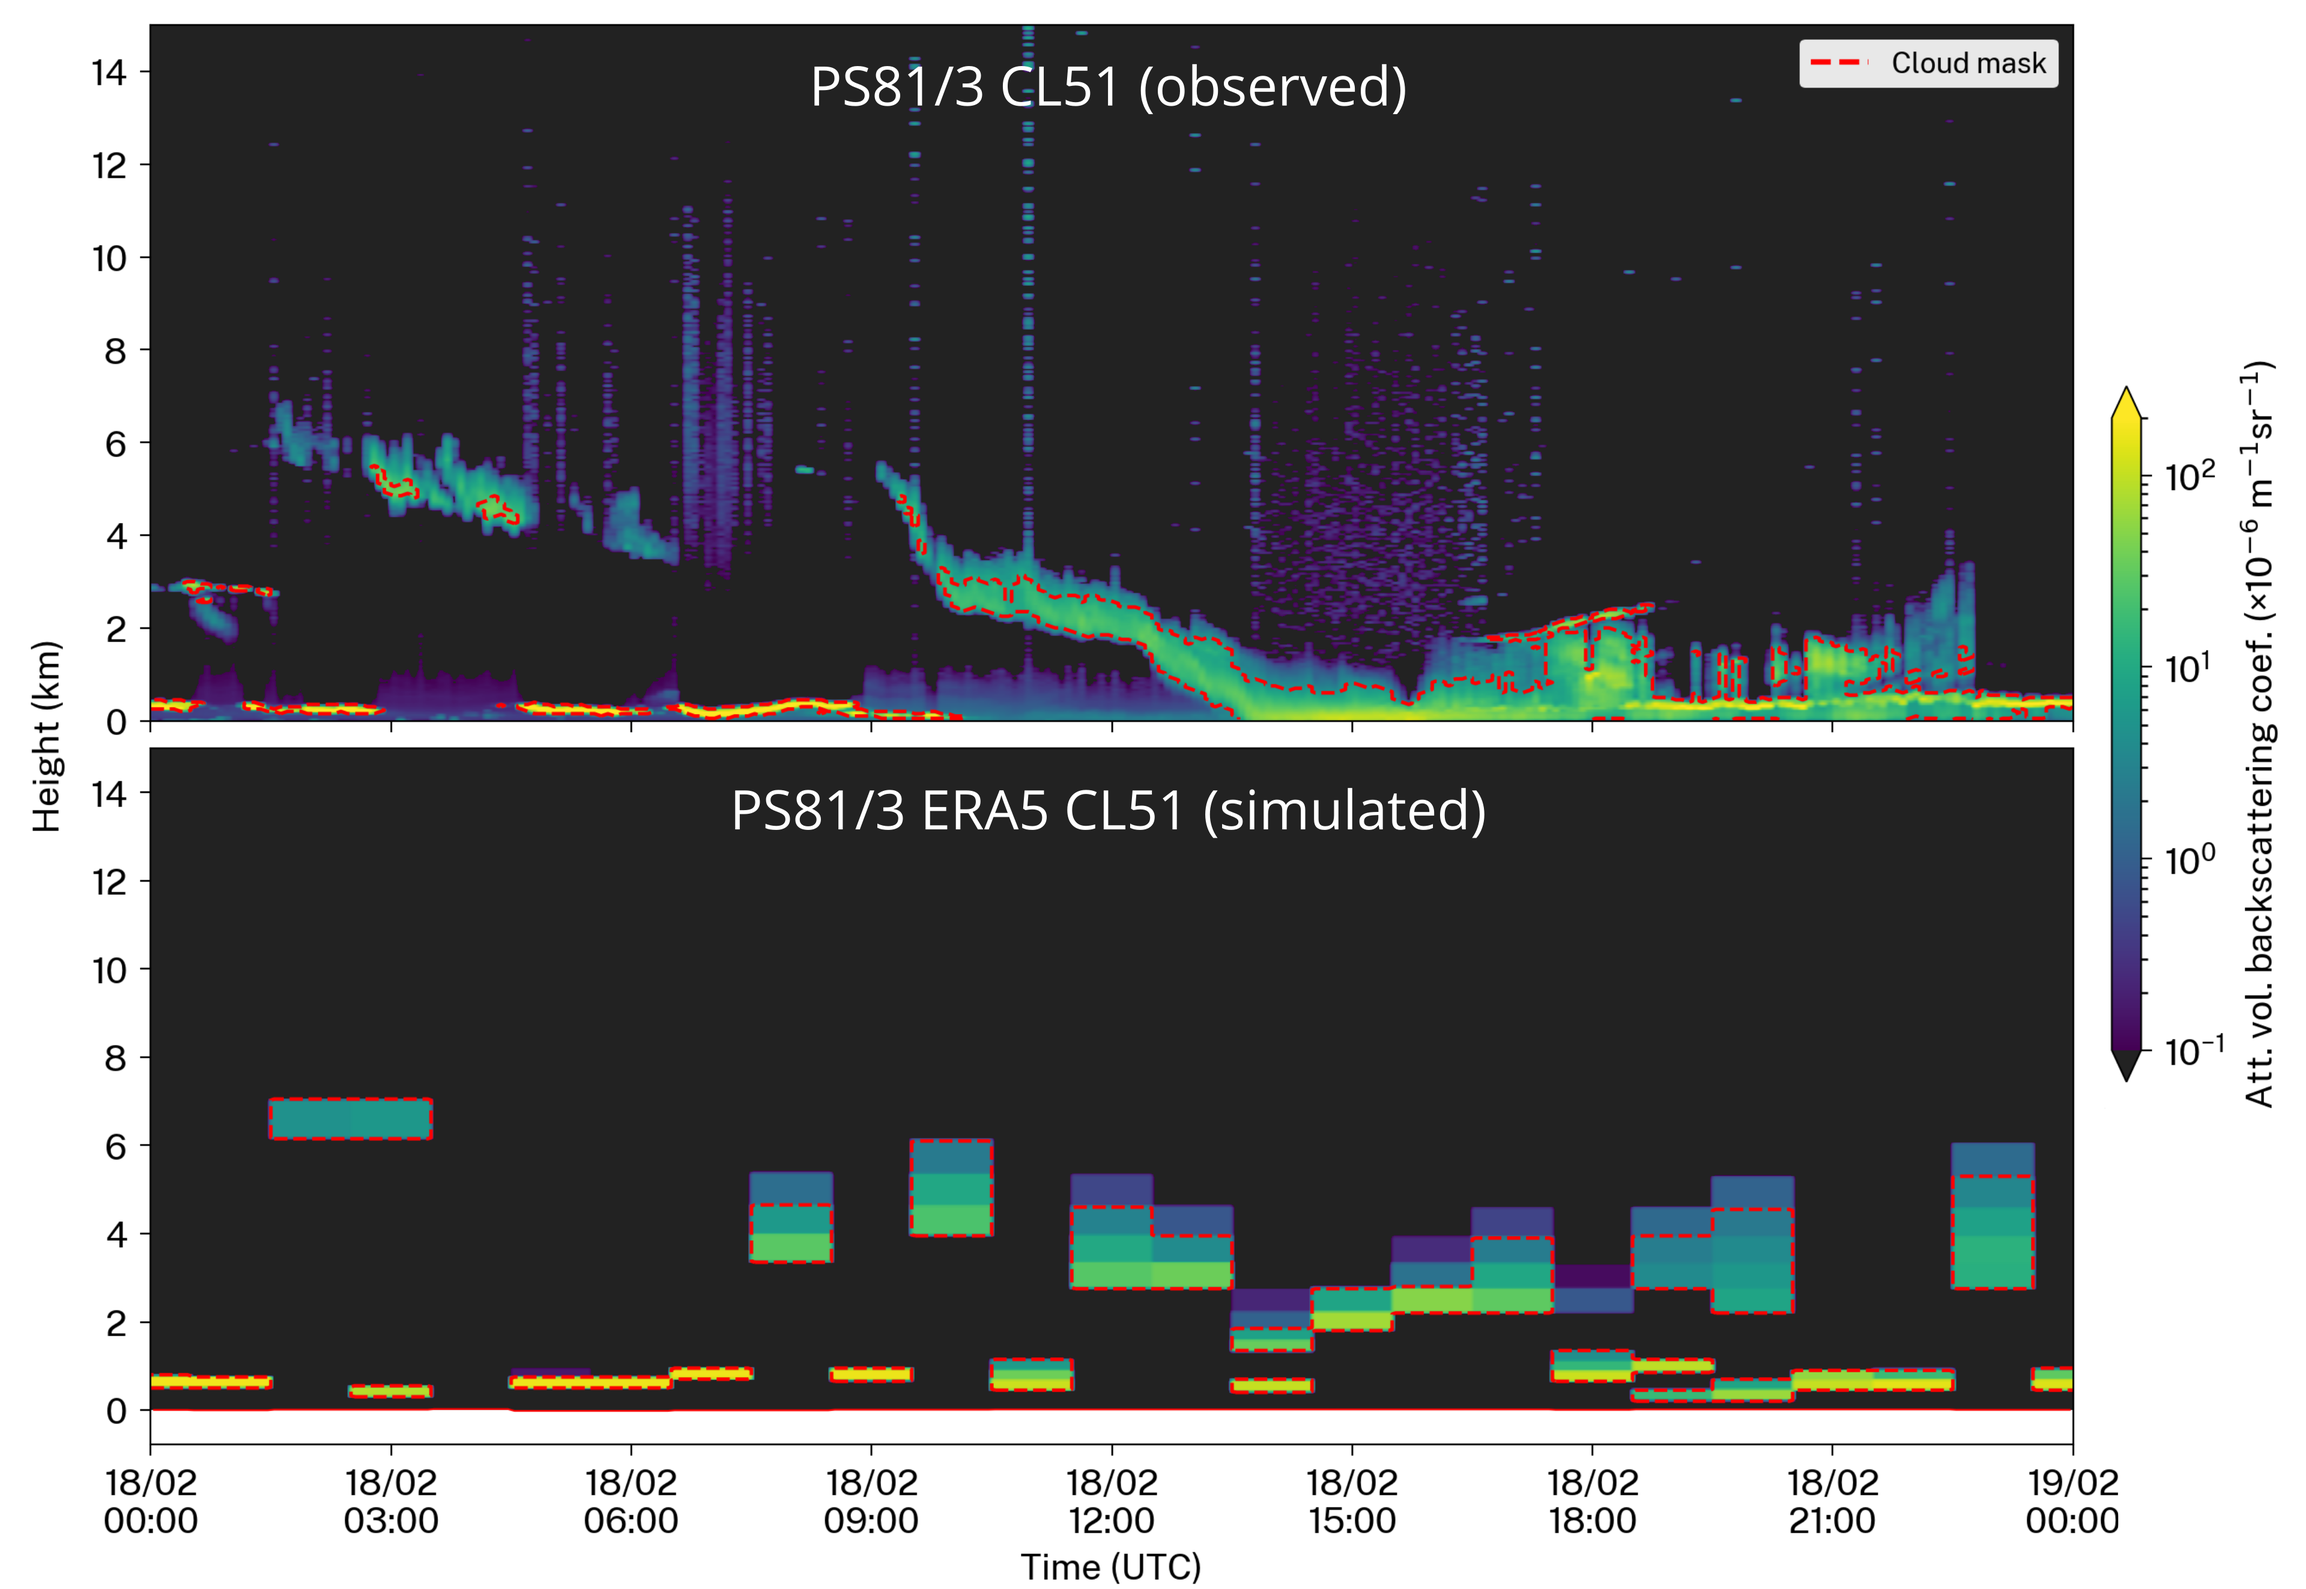
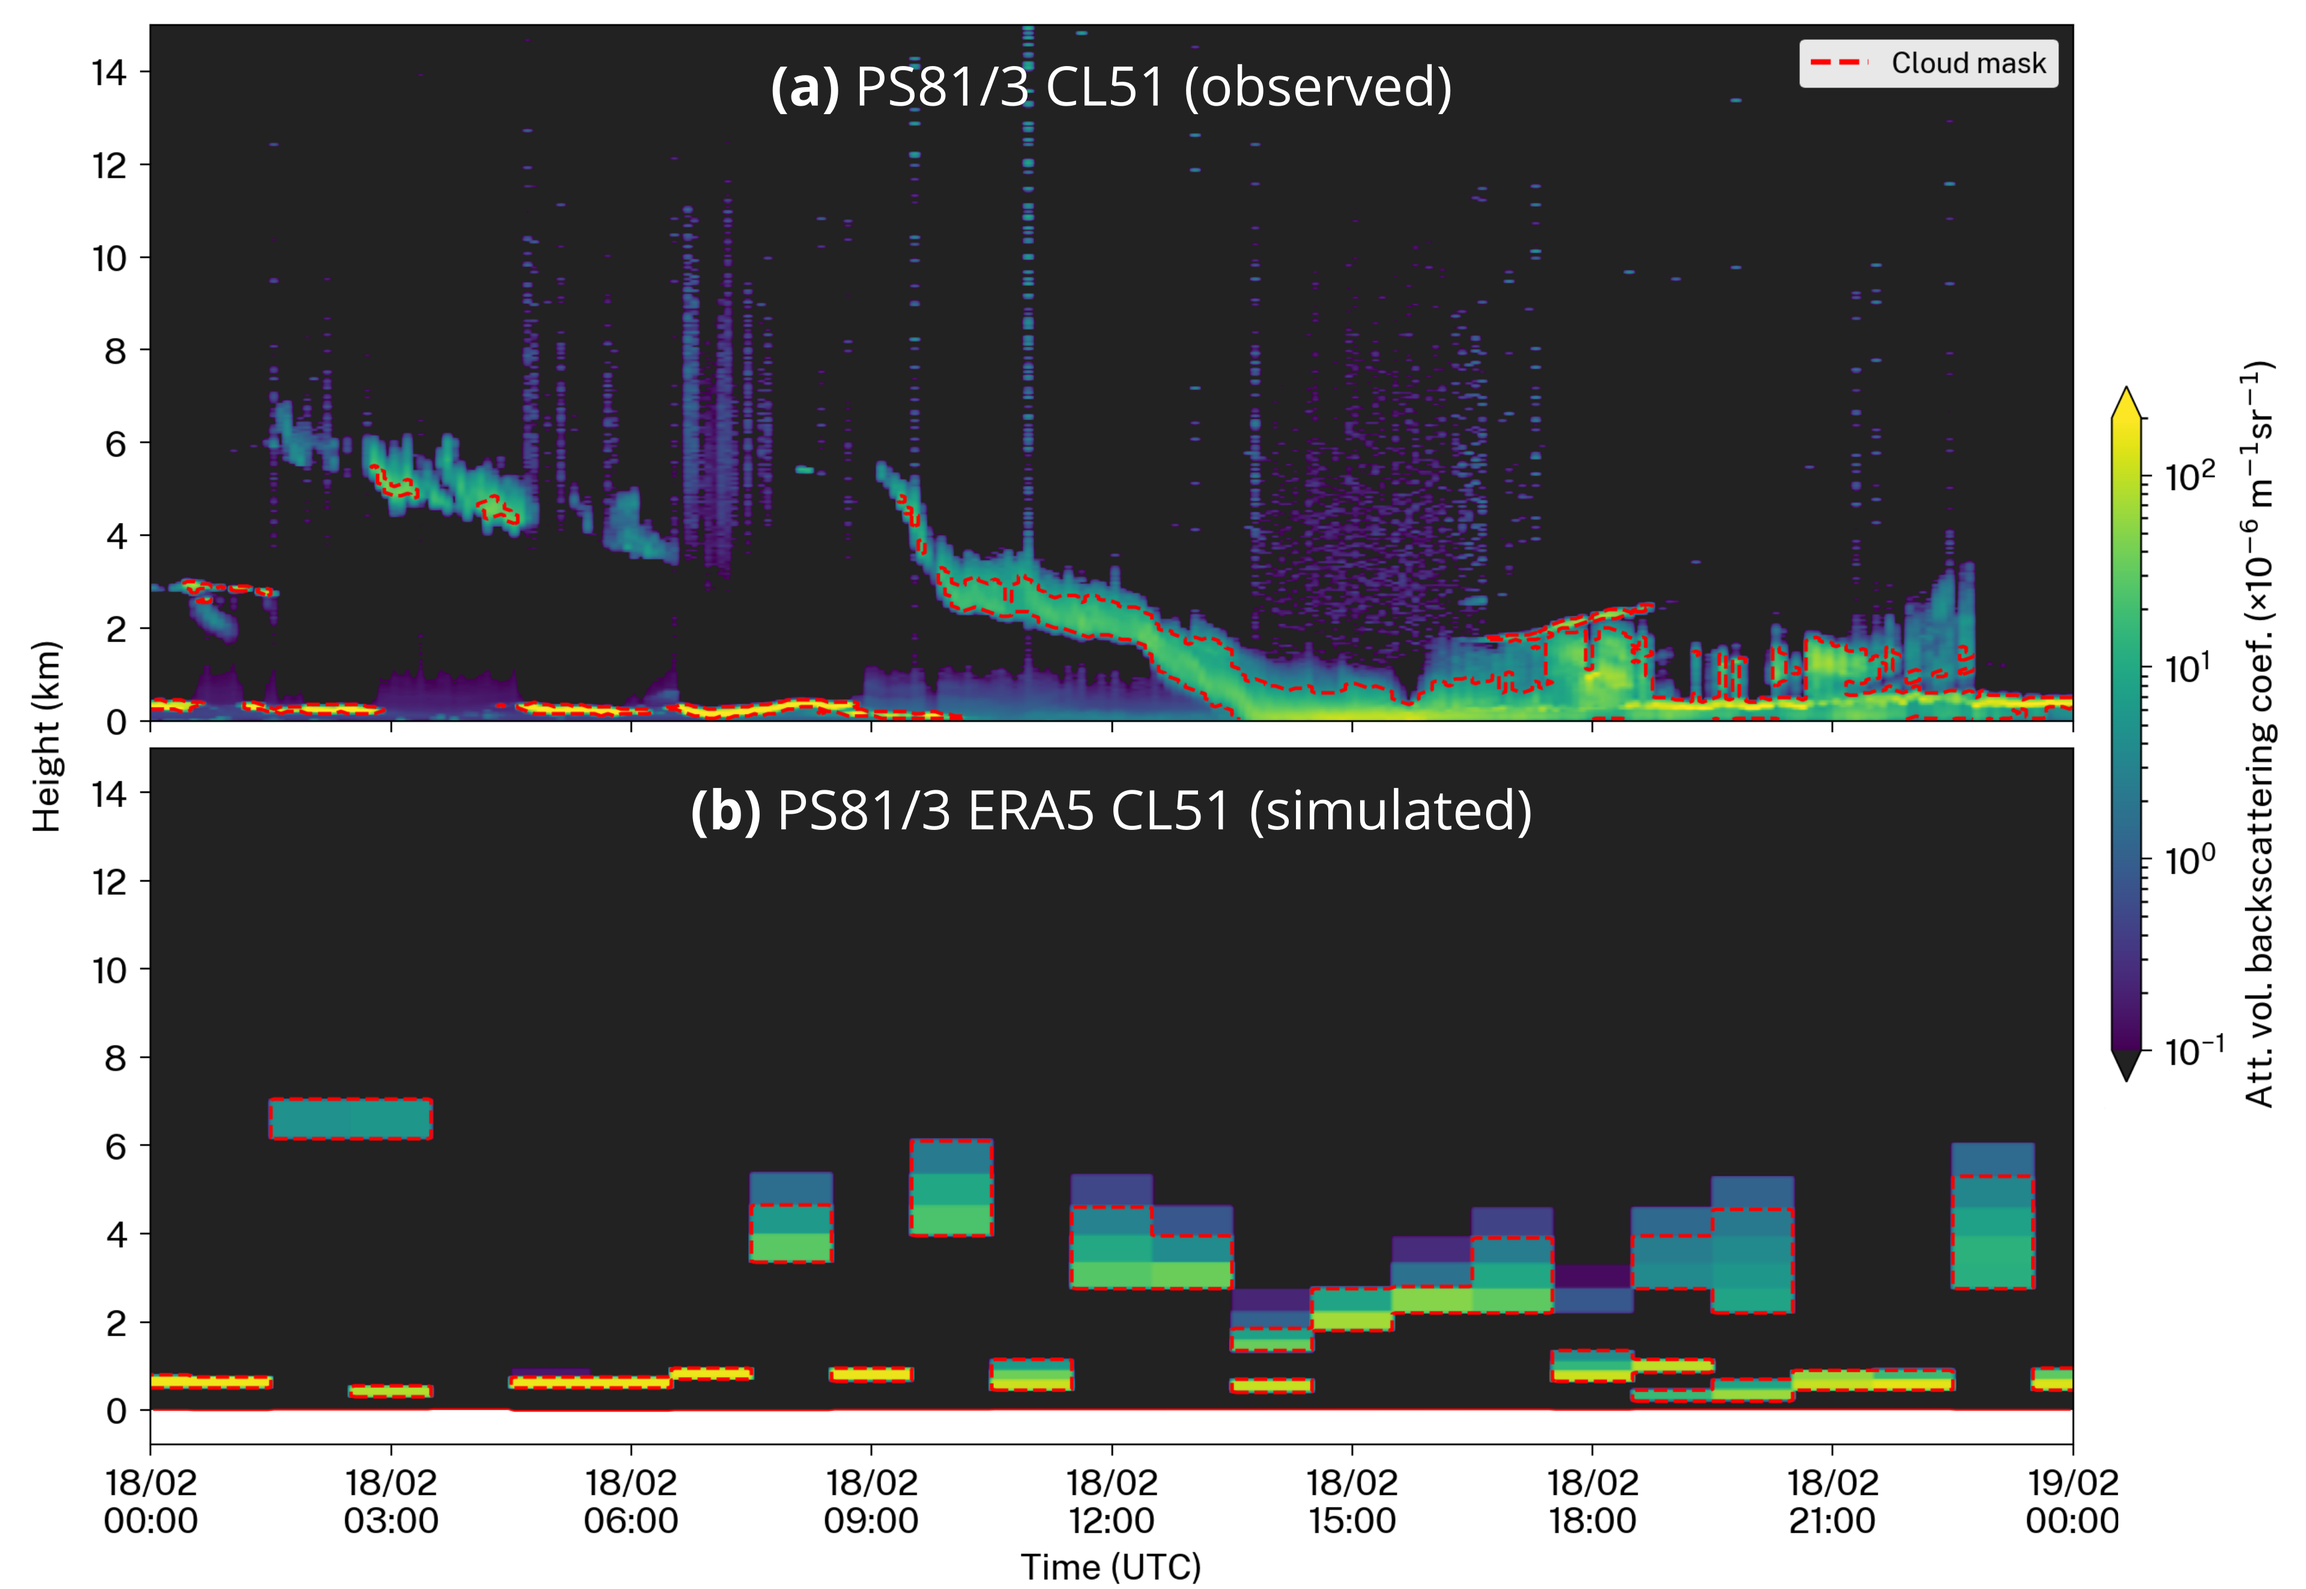
Improve example figure

Changed region(s): [[0.2812, 0.4958, 0.6562, 0.5268], [0.3438, 0.031, 0.625, 0.093]]

diff --git a/manuscript.tex b/manuscript.tex
@@ -301,10 +301,10 @@ Macquarie Island station (© Jeﬀ Aquilina, Bureau of Meteorology).
 \centering
 \includegraphics[width=\textwidth]{img/example.png}
 \caption{
-An example of attenuated volume backscattering coefficient (AVBC) measured by
-CL51 during 24 hours on the PS81/3 voyage and an equivalent AVBC simulated with
-the ALCF from ERA5 data during the same time period. Shown is also the cloud
-mask determined by the ALCF.
+An example of attenuated volume backscattering coefficient (AVBC) \textbf{(a)}
+measured by CL51 during 24 hours on the PS81/3 voyage and \textbf{(b)} an
+equivalent AVBC simulated with the ALCF from ERA5 data during the same time
+period. Shown is also the cloud mask determined by the ALCF.
 }
 \label{fig:example}
 \end{figure}
